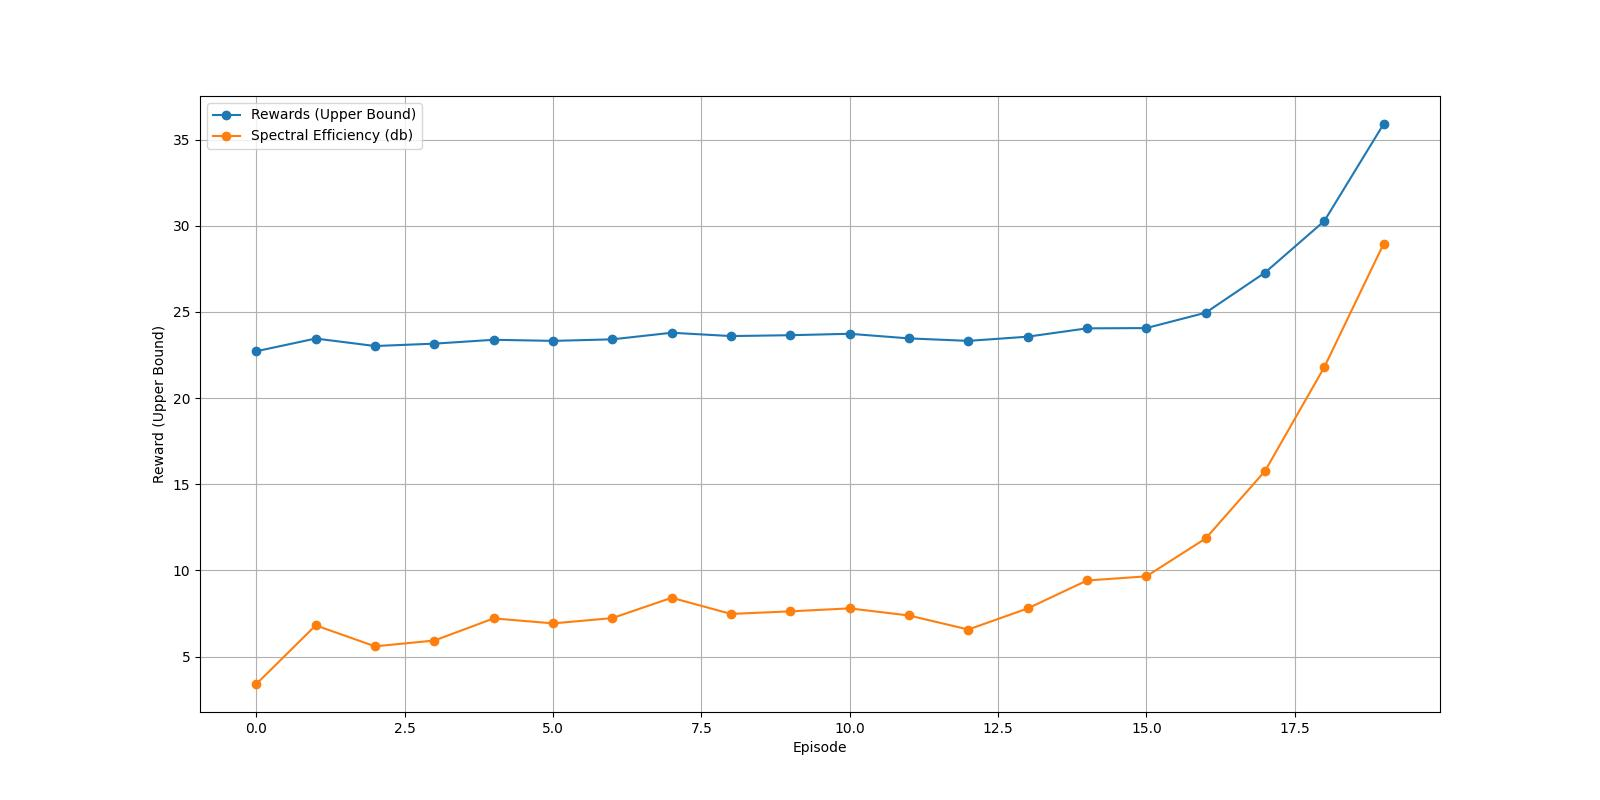
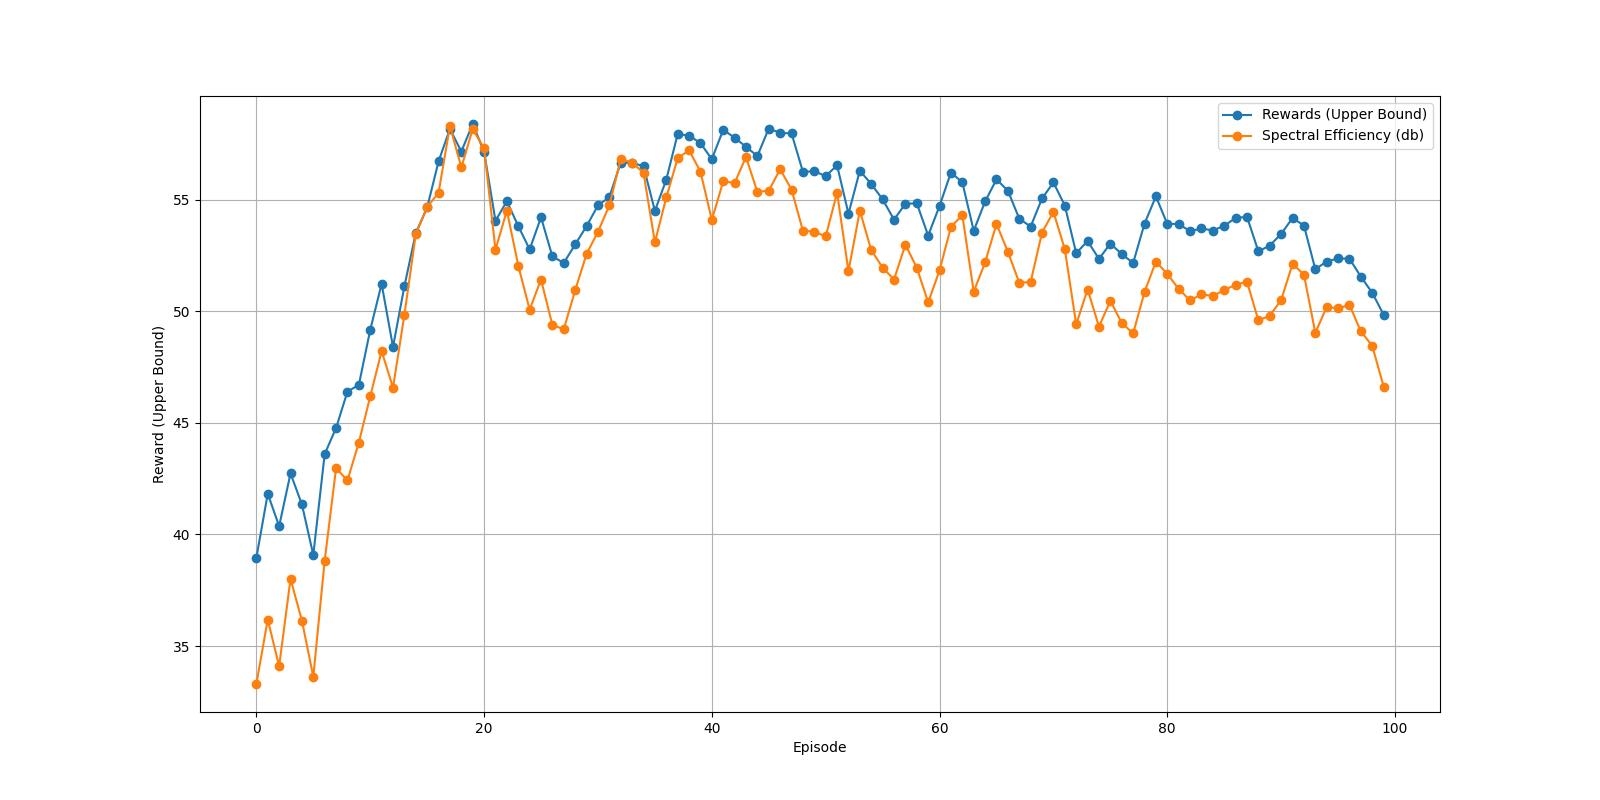
Channel Matrix + Config + REadme

diff --git a/config.py b/config.py
@@ -1,11 +1,12 @@
 import numpy as np
 n_s = 6
 n_r = 32
-
-channel_matrix = np.random.randn(n_r, n_s) # Change This However You like :))
+size = (n_r, n_s)
+channel_matrix = np.random.rand(*size) * 50.0j
+channel_matrix += np.random.rand(*size) * 50.0
 
 ENV_CONFIG = {
-    "P": 120,
+    "P": 100,
     "var": 1,
     "beta": 0.1,
     "n_t": 128,
@@ -16,11 +17,11 @@ ENV_CONFIG = {
     "n_cl": 8,
     "n_ray": 10,
     "v_rf_a": 100,
-    "v_rf_iteration": 10_000,
+    "v_rf_iteration": 1000,
     "channel_matrix": channel_matrix
 }
 
-EPOCHS = 64
+EPOCHS = 100
 MEM_MAX_LEN = 1024
 MEM_BATCH_SIZE = 16
 RESULT_FOLDER = "./results/results.jpg"

diff --git a/README.md b/README.md
@@ -29,12 +29,13 @@ from PrecoderNet.random_process import OrnsteinUhlenbeckProcess
 # Config File
 n_s = 6
 n_r = 32
+size = (n_r, n_s)
 
-# Change This However You like :)) Based on Base Station Channel Matrix
-channel_matrix = np.random.randn(n_r, n_s)
+channel_matrix  = np.random.rand(*size) * 50.0j
+channel_matrix += np.random.rand(*size) * 50.0
 
 ENV_CONFIG = {
-    "P": 120,
+    "P": 100,
     "var": 1,
     "beta": 0.1,
     "n_t": 128,
@@ -45,11 +46,11 @@ ENV_CONFIG = {
     "n_cl": 8,
     "n_ray": 10,
     "v_rf_a": 100,
-    "v_rf_iteration": 10_000,
+    "v_rf_iteration": 1000,
     "channel_matrix": channel_matrix
 }
 
-EPOCHS = 64
+EPOCHS = 100
 MEM_MAX_LEN = 1024
 MEM_BATCH_SIZE = 16
 RESULT_FOLDER = "./results/results.jpg"
